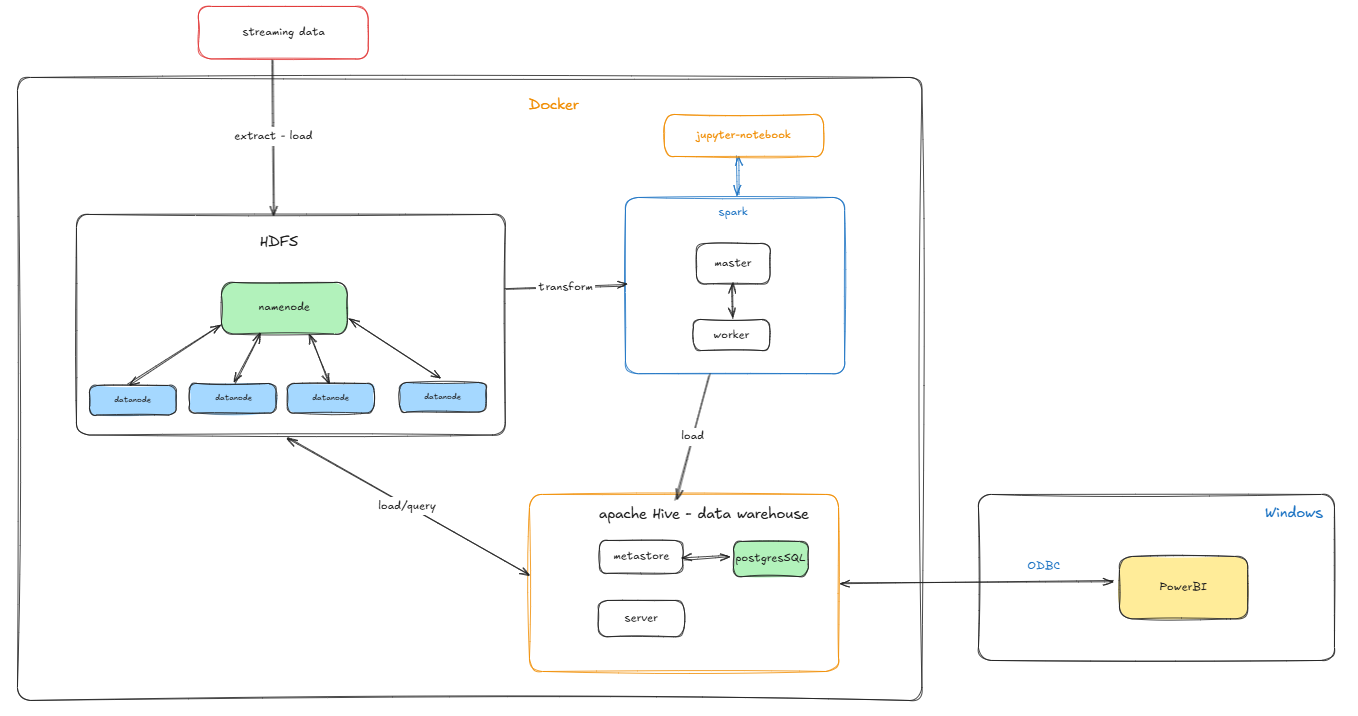
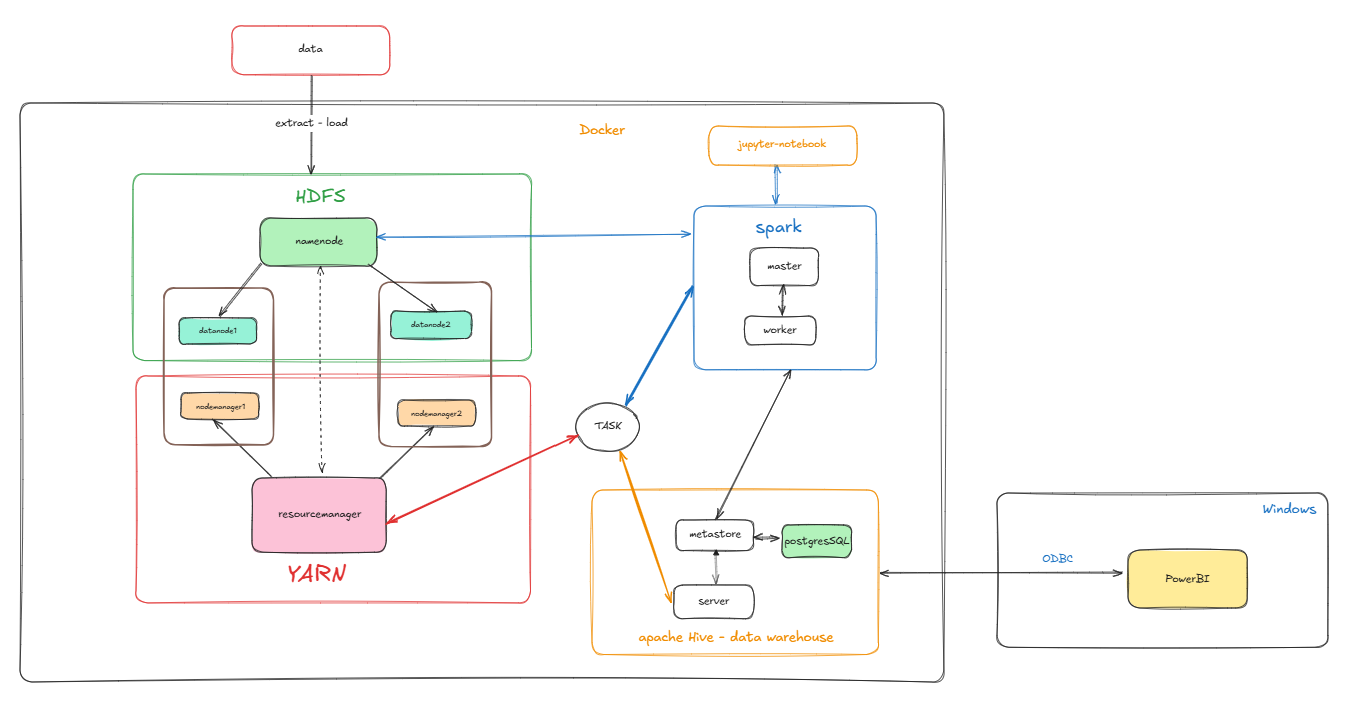
fix: delete volume, fix arch and readme

diff --git a/README.md b/README.md
@@ -80,7 +80,7 @@ Source: https://medium.com/emorphis-technologies/how-to-connect-microsoft-power-
 
 1. **Download Hive OBDC Driver:**
    From this link: https://www.microsoft.com/en-us/download/details.aspx?id=40886
-2. **Config ODBSC:**
+2. **Config ODBC:**
    
    Go to the Configure: 
 
